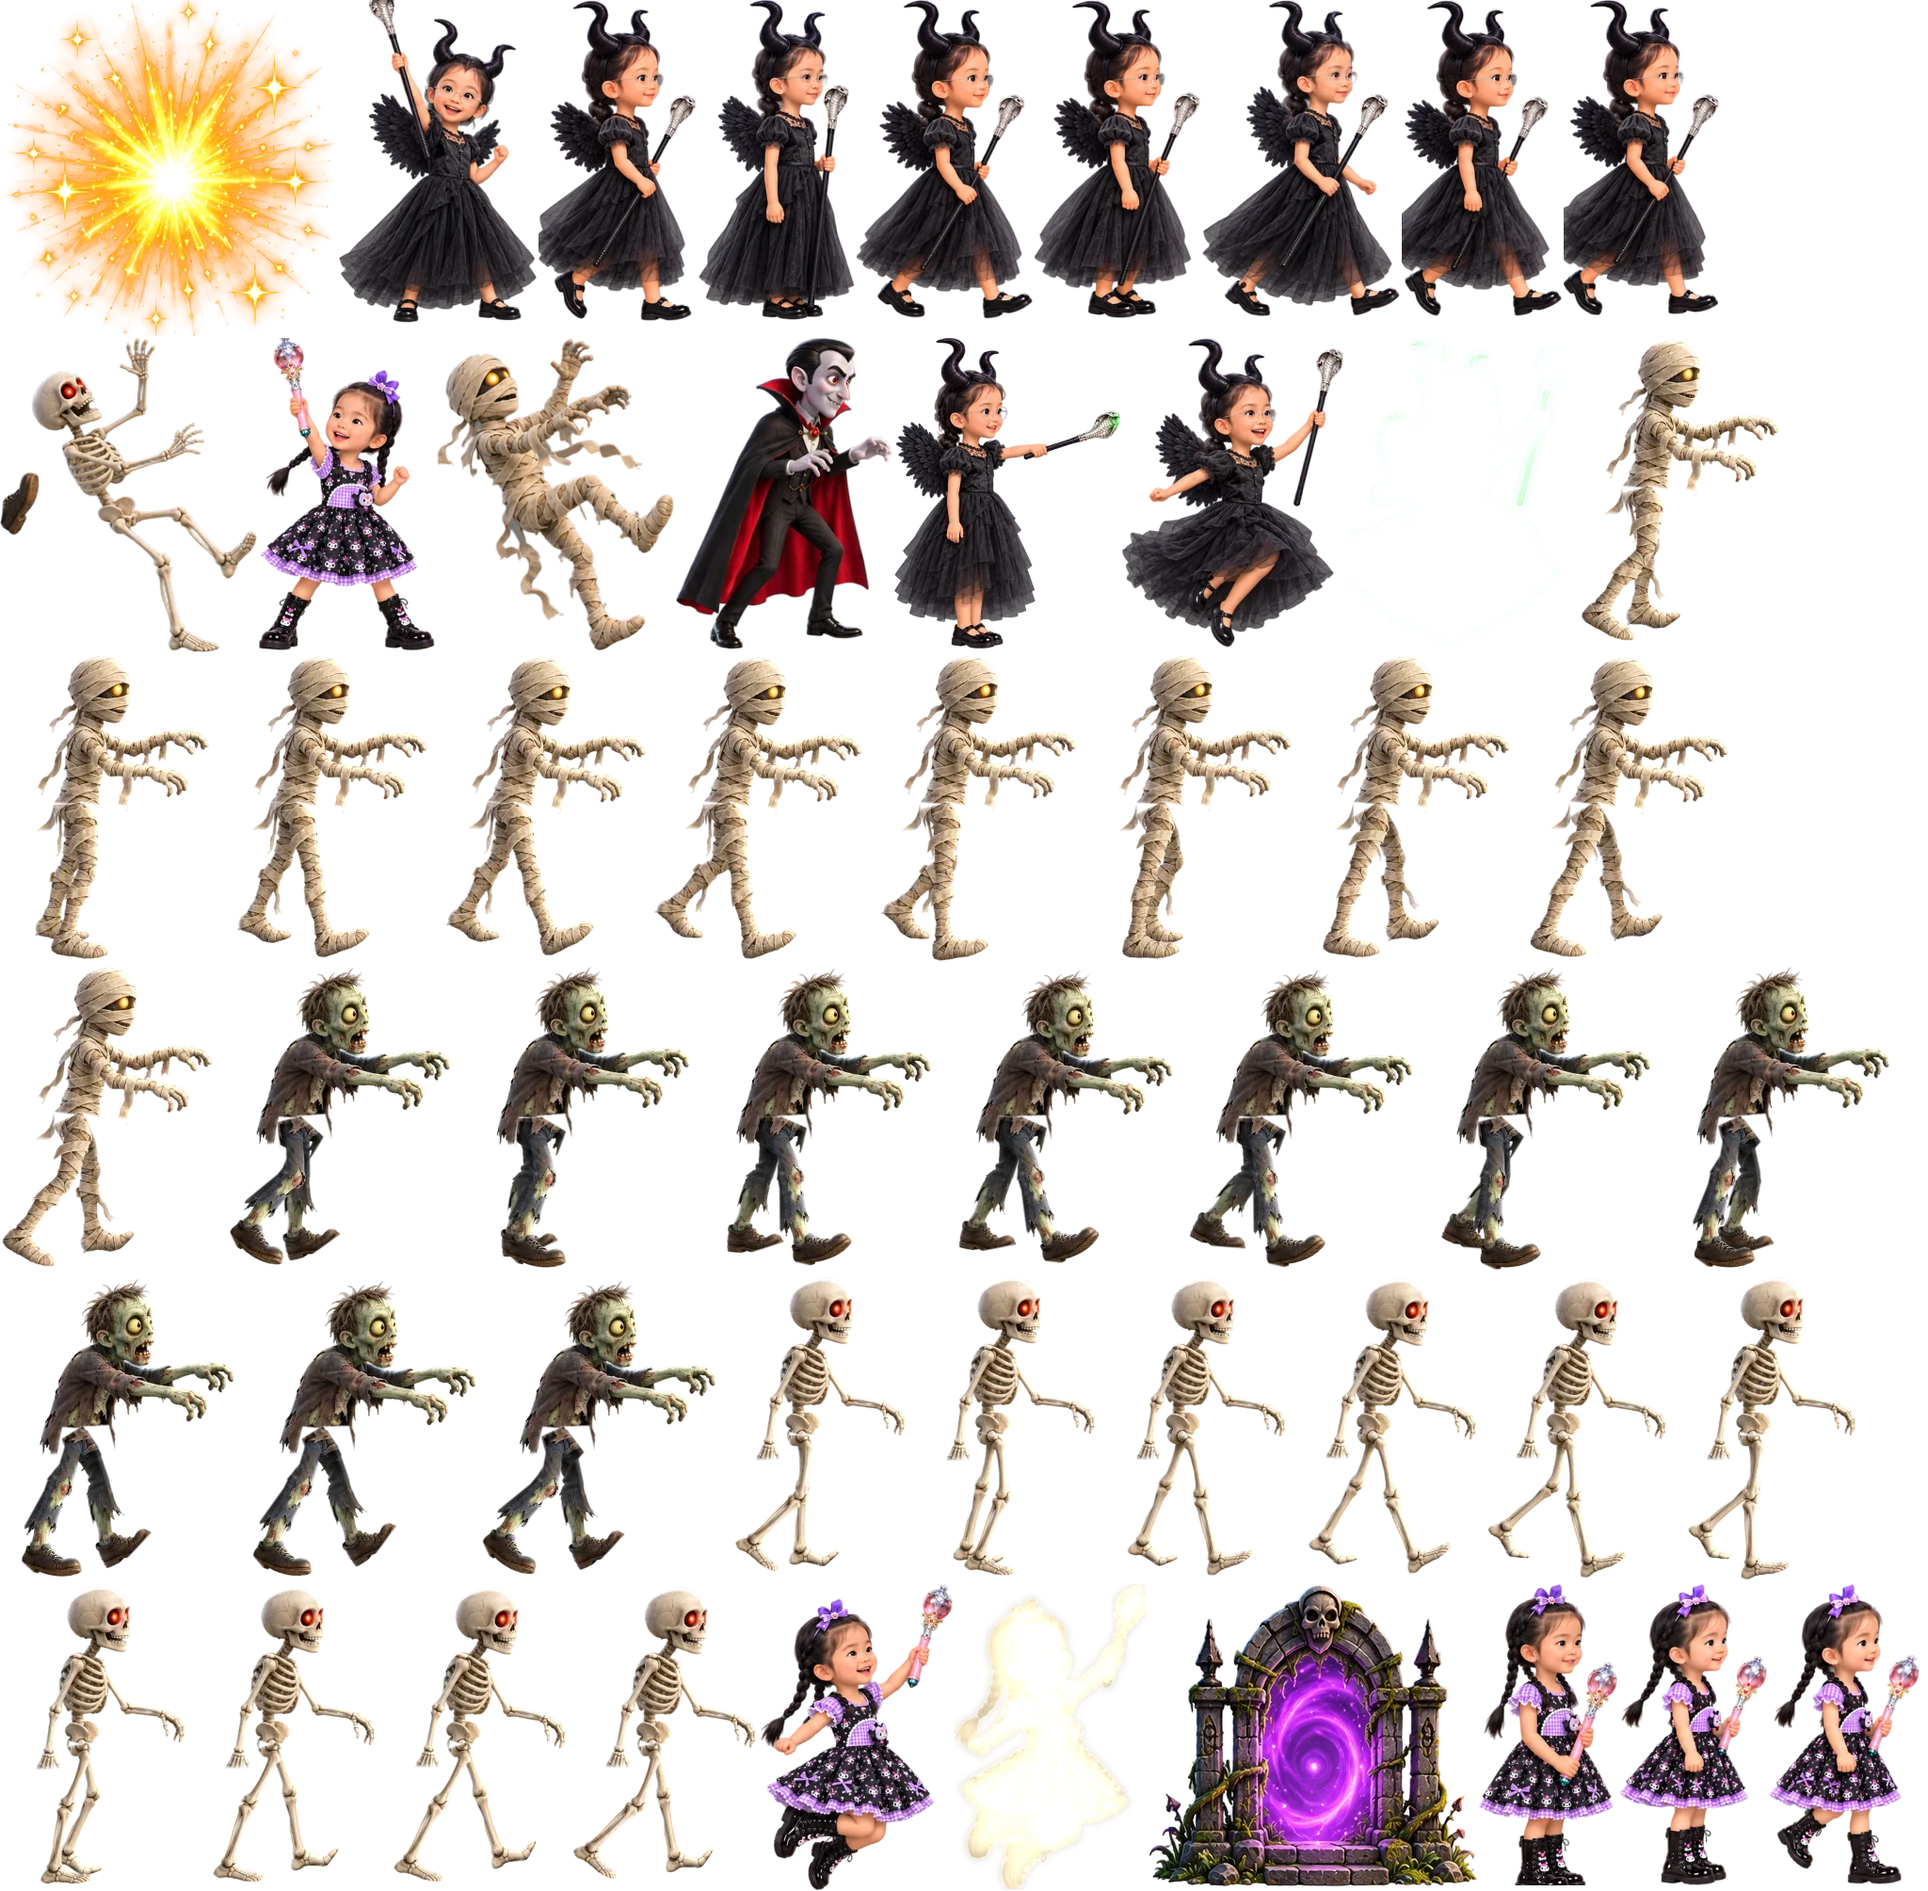
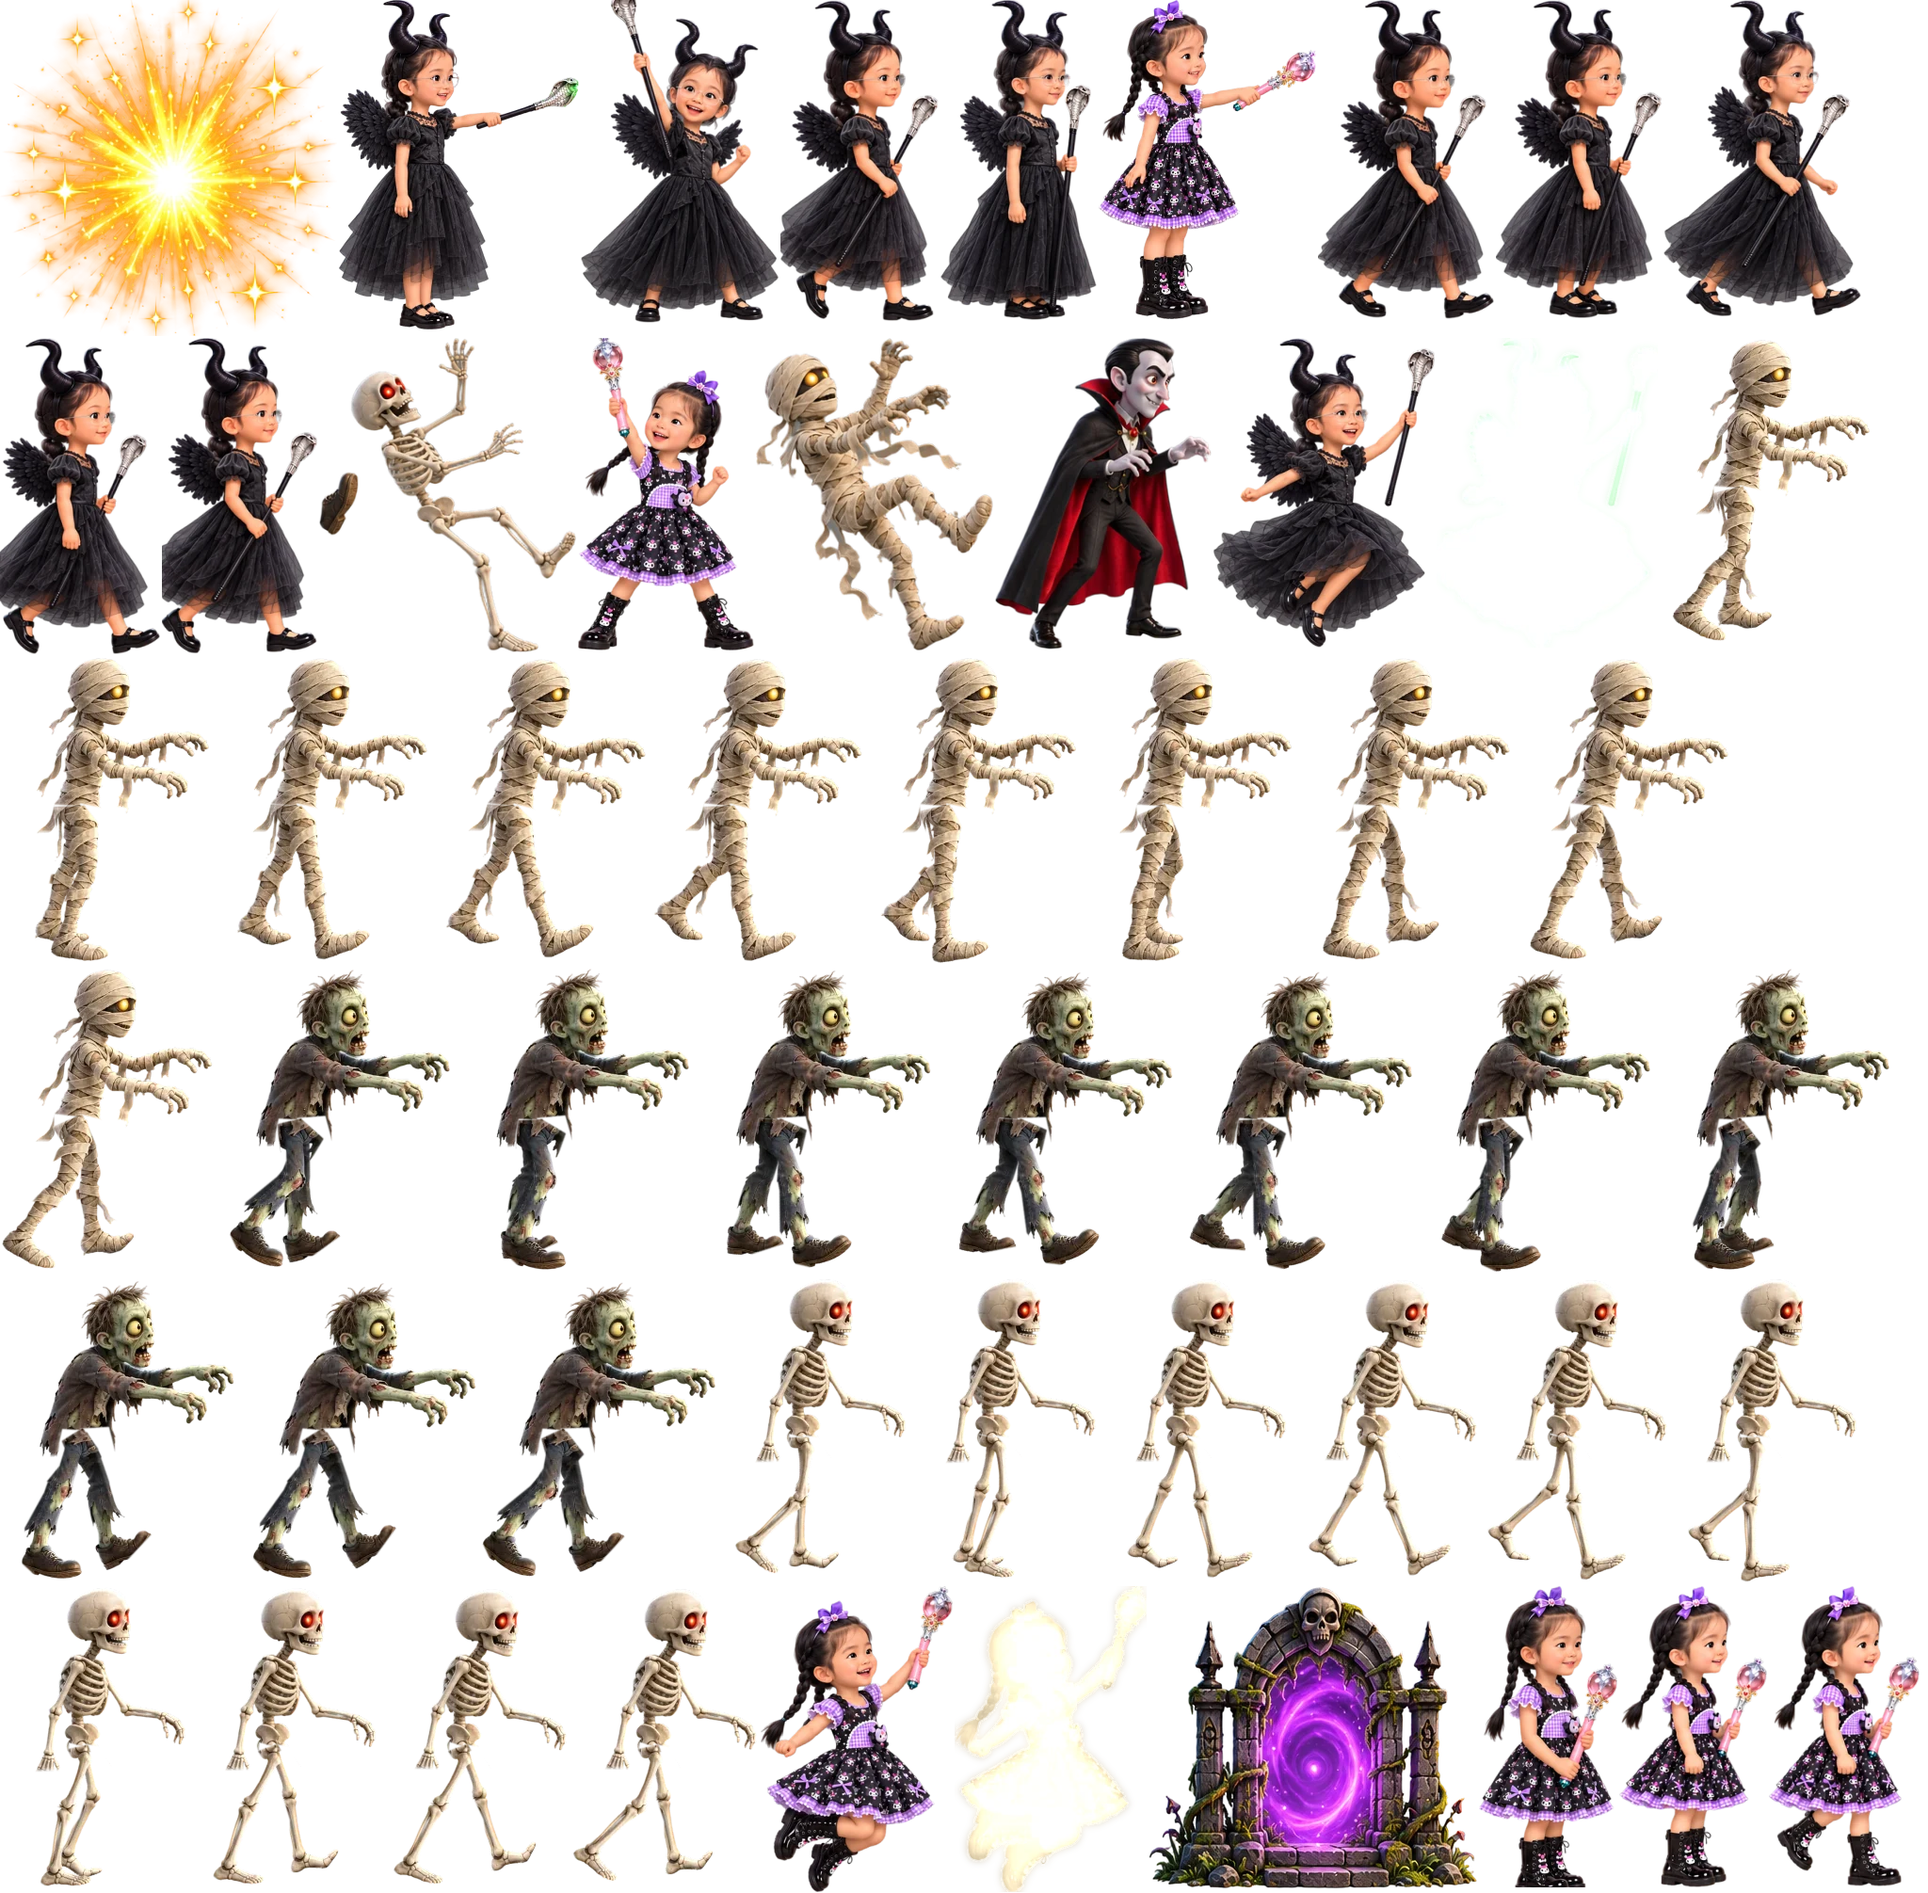
Dáng vừa chạy vừa bắn, đạn riêng cho hai bé, dáng bắn đúng cỡ
Claude-Session: https://claude.ai/code/session_018CdmaGRbzjkocUF5TVUzxd

diff --git a/index.html b/index.html
@@ -396,8 +396,8 @@
   const ELEM_TIME = 20;
   // playable heroes: sprite prefix, wand tip in the cast pose (world units from the feet), spell colours
   const HEROES = {
-    g: { name: "Mochi", tip: [60, -148], idle: [44, -138], rgb: "255,190,240", cols: ["#ffd3f0", "#fff4c2", "#c9b6ff"] },
-    s: { name: "Matcha", tip: [90, -169], idle: null, rgb: "140,255,140", cols: ["#b8ffb0", "#f0fff0", "#7be04a"] },
+    g: { name: "Mochi", tip: [74, -167], rcTip: [60, -128], idle: [44, -138], rgb: "255,120,200", cols: ["#ffb3e0", "#ff9ad5", "#ffd3f0"] },
+    s: { name: "Matcha", tip: [104, -185], rcTip: [70, -148], idle: null, rgb: "140,255,140", cols: ["#b8ffb0", "#f0fff0", "#7be04a"] },
   };
   let hero = "g";
   try { if (localStorage.getItem("dcpt2-hero") === "s") hero = "s"; } catch (e) {}
@@ -630,9 +630,11 @@
       P.dist += Math.abs(P.vx) * dt;
     }
   }
-  function wandTip() { return { x: P.x + P.dir * HD().tip[0], y: P.y + HD().tip[1] }; }
+  // casting on the move uses the run-while-casting cycle, whose wand sits elsewhere
+  function castMoving() { return P.onGround && Math.abs(P.vx) > 40 && !!FR[hero + "_rc0"]; }
+  function wandTip() { const tp = castMoving() ? HD().rcTip : HD().tip; return { x: P.x + P.dir * tp[0], y: P.y + tp[1] }; }
   function castSpell() {
-    P.shootCd = 0.3; P.castT = 0.26;
+    P.shootCd = 0.3; P.castT = 0.38;   // outlasts the cooldown so holding Shoot keeps the casting pose
     const t = wandTip();
     // point-blank: a monster between the girl and the wand tip is hit at once
     const near = { x0: Math.min(P.x, t.x) - 10, x1: Math.max(P.x, t.x) + 10, y0: t.y - 100, y1: P.y };
@@ -1122,7 +1124,7 @@
   function updateShots(dt) {
     for (const s of G.shots) {
       s.x += s.vx * dt; s.y += s.vy * dt; s.life -= dt;
-      const sc = s.elem ? ELEM[s.elem].cols : HD().cols;
+      const sc = s.elem && Math.random() < 0.6 ? ELEM[s.elem].cols : HD().cols;
       if (Math.random() < 0.8) G.parts.push({ type: "dot", x: s.x - Math.sign(s.vx) * 10, y: s.y + rnd(-8, 8), vx: -s.vx * 0.05, vy: rnd(-30, 30), life: 0.3, max: 0.3, r: rnd(3, 7), col: sc[Math.floor(Math.random() * sc.length)] });
       const b = { x0: s.x - s.r, x1: s.x + s.r, y0: s.y - s.r, y1: s.y + s.r };
       for (const m of G.mons) {
@@ -1290,8 +1292,10 @@
   function drawWeb(x, y, r, a) { spr("web", x, y, false, r / 52, a, Math.sin(G.t * 3 + x) * 0.15); }
   // a spell in flight: the bolt's head sits on the hit point, its trail behind
   function drawBolt(x, y, vx, vy, elem, hk) {
-    const n = elem ? "fx_bolt_" + elem : hk === "s" ? "fx_bolt_s" : "fx_bolt_g", sp = Math.hypot(vx, vy) || 1;
-    glow(x, y, 60, elem ? ELEM[elem].rgb : HEROES[hk].rgb, 0.45);
+    // each sister keeps her own bolt; a picked-up element only adds its coloured aura
+    const n = hk === "s" ? "fx_bolt_s" : "fx_bolt_g", sp = Math.hypot(vx, vy) || 1;
+    if (elem) glow(x, y, 95, ELEM[elem].rgb, 0.55 + 0.1 * Math.sin(G.t * 20));
+    glow(x, y, 60, HEROES[hk].rgb, 0.45);
     fxDir(n, x - vx / sp * 55, y - vy / sp * 55, vx, vy, 1, 1);
   }
   function drawPortal() {
@@ -1408,7 +1412,7 @@
     const h = hero + "_";
     if (P.winT) return h + "win";
     if (P.hurtT > 0 || P.dead) return h + "hurt";
-    if (P.castT > 0 && !(P.onGround && Math.abs(P.vx) > 470)) return h + "cast";   // running keeps its stride while casting
+    if (P.castT > 0) return castMoving() ? h + "rc" + (Math.floor(P.dist / 300 * 6) % 6) : h + "cast";
     if (!P.onGround) return h + (P.vy < -150 ? "jump" : P.vy < 750 ? "run" : "fall");
     const sp = Math.abs(P.vx);
     if (sp < 40) return h + (P.land > 0 ? "stride" : "stand");
